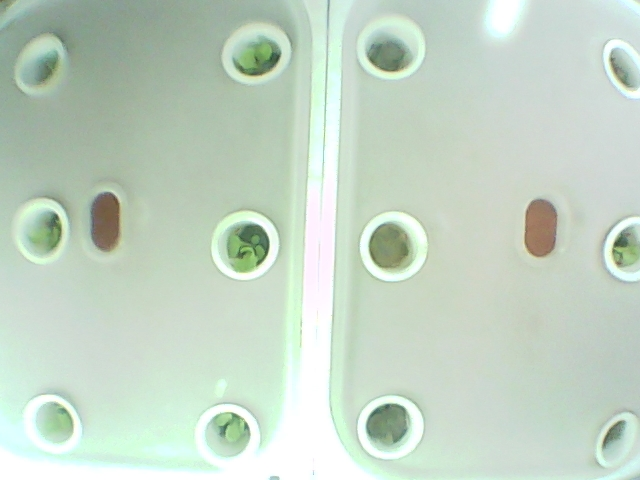
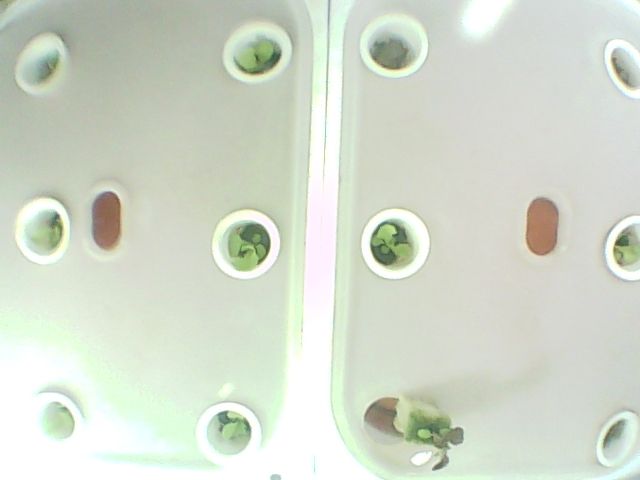
grow

diff --git a/public/page/tag.html b/public/page/tag.html
@@ -147,6 +147,8 @@
 											<img src="../icon/seeding4.png" ng-if="totaldatahole[i*3+floor*12].nameveg=='redoak'" class="vegInHole" ng-attr-id="{{i*3+floor*12}}">
 										</span>
 										<span class="tooltiptext"><h5>{{totaldatahole[i*3+floor*12].nameveg}}</h5><br>
+											<span ng-if="totaldatahole[i*3+floor*12].size">
+													Grow : {{totaldatahole[i*3+floor*12].size}}%</span> <br>
 											{{daysDiffFunc(totaldatahole[i*3+floor*12].typeveg).days}} days<br>
 											{{daysDiffFunc(totaldatahole[i*3+floor*12].typeveg).hours}} hours
 											{{daysDiffFunc(totaldatahole[i*3+floor*12].typeveg).mins}} mins
@@ -177,6 +179,8 @@
 											<img src="../icon/seeding4.png" ng-if="totaldatahole[1+i*3+floor*12].nameveg=='redoak'" class="vegInHole" ng-attr-id="{{1+i*3+floor*12}}">
 										</span>
 										<span class="tooltiptext"><h5>{{totaldatahole[1+i*3+floor*12].nameveg}}</h5><br>
+											<span ng-if="totaldatahole[1+i*3+floor*12].size">
+												Grow : {{totaldatahole[1+i*3+floor*12].size}}%</span> <br>
 											{{daysDiffFunc(totaldatahole[1+i*3+floor*12].typeveg).days}} days<br>
 											{{daysDiffFunc(totaldatahole[1+i*3+floor*12].typeveg).hours}} hours
 											{{daysDiffFunc(totaldatahole[1+i*3+floor*12].typeveg).mins}} mins
@@ -207,6 +211,8 @@
 											<img src="../icon/seeding4.png" ng-if="totaldatahole[2+i*3+floor*12].nameveg=='redoak'" class="vegInHole" ng-attr-id="{{2+i*3+floor*12}}">
 										</span>
 										<span class="tooltiptext"><h5>{{totaldatahole[2+i*3+floor*12].nameveg}}</h5><br>
+											<span ng-if="totaldatahole[2+i*3+floor*12].size">
+													Grow : {{totaldatahole[2+i*3+floor*12].size}}%</span> <br>
 											{{daysDiffFunc(totaldatahole[2+i*3+floor*12].typeveg).days}} days<br>
 											{{daysDiffFunc(totaldatahole[2+i*3+floor*12].typeveg).hours}} hours
 											{{daysDiffFunc(totaldatahole[2+i*3+floor*12].typeveg).mins}} mins

diff --git a/public/app.js b/public/app.js
@@ -769,14 +769,16 @@ angular.module('app', [])
               "idhole": id,
               "nameveg": veg,
               "typeveg": null,
-              "statushole": false
+              "statushole": false,
+              "size": null
             }
           else {//put
             obj = {
               "idhole": id,
               "nameveg": veg,
               "typeveg": new Date(),
-              "statushole": true
+              "statushole": true,
+              "size": null
             }
           }
           if ((veg == null && $scope.totaldatahole[id].statushole) || (veg !== null && !$scope.totaldatahole[id].statushole))

diff --git a/server.js b/server.js
@@ -194,7 +194,7 @@ app.get('/hole', function (req, res) {
 app.put('/hole/:id', function (req, res) {
   evenhole.findOneAndUpdate(
     { _id: req.params.id },
-    { $set: { idhole: req.body.idhole, statushole: req.body.statushole, nameveg: req.body.nameveg, typeveg: req.body.typeveg } },
+    { $set: { idhole: req.body.idhole, statushole: req.body.statushole, nameveg: req.body.nameveg, typeveg: req.body.typeveg, size: req.body.size } },
     { new: true })
     .exec(function (err, done) {
       if (err) console.log(err)

diff --git a/growRate.py b/growRate.py
@@ -6,7 +6,7 @@ import numpy as np
 import argparse
 import cv2
 import imutils
-
+import requests
 # construct the argument parse and parse the arguments
 ap = argparse.ArgumentParser()
 ap.add_argument("-i", "--image", help = "path to the image")
@@ -20,19 +20,22 @@ gridY = int(height/3)
 gridX = int(width/4)
 # define the list of boundaries
 boundaries = [
-	([146, 95, 46], [195, 100, 50]),
-	([135, 40, 40], [156, 60, 50])
+	([30,60,60], [50,255,255]),
+	([1,0,0], [255,160,160])
 ]
-
+holes = [[],[],[]]
+for i in range(0, 3):
+	for j in range(0, 12):
+		holes[i].append(None)
 hsv = cv2.cvtColor(image,cv2.COLOR_BGR2HSV)
 hsv = cv2.GaussianBlur(hsv, (5, 5), 0)
 # loop over the boundaries
 for (lower, upper) in boundaries:
 	# create NumPy arrays from the boundaries
-	lower = np.array(lower, dtype = "uint8")
-	upper = np.array(upper, dtype = "uint8")
-	lower = np.array([15,65,65])
-	upper = np.array([255,255,255])
+	# lower = np.array(lower, dtype = "uint8")
+	# upper = np.array(upper, dtype = "uint8")
+	lower = np.array(lower)
+	upper = np.array(upper)
 	# find the colors within the specified boundaries and apply
 	# the mask
 	mask = cv2.inRange(hsv, lower, upper)
@@ -46,7 +49,7 @@ for (lower, upper) in boundaries:
 	for idx, c in enumerate(cnts) :
 		rec = cv2.boundingRect(c)
 		area = cv2.contourArea(c)
-		if (area>100):
+		if (area>50 and area < 5000):
 			peri = cv2.arcLength(c, True)
 			approx = cv2.approxPolyDP(c, 0.01 * peri, True)
 			#if len(approx) >= 4:
@@ -56,12 +59,31 @@ for (lower, upper) in boundaries:
 			centerCo = (centerX , centerY)
 			col = int(centerX/gridX)
 			row = int(centerY/gridY)
-			hole = row*4+col+1
+			hole = col*3+row
+			if (holes[0][hole] is None):
+				holes[0][hole] = area
 			cv2.drawContours(image, [screenCnt], -1, (255, 255, 0), 2)
 			cv2.putText(image, "{}".format(str(hole)) + ": {}".format(str(area)), centerCo,
         	cv2.FONT_HERSHEY_SIMPLEX, 0.5, (250, 0, 1), 2)
 	# time.sleep(5)
 	# show the images
+	# r = requests.post("https://smartfarm-cabinet.herokuapp.com/hole/:id", data={'number': 12524, 'type': 'issue', 'action': 'show'})
+	# print(r.status_code, r.reason)
+	getHoles = requests.get("https://smartfarm-cabinet.herokuapp.com/hole")
+	Holes = getHoles.json()
+	# print(Holes[0]['_id'])
+	for i in range(0, 3):
+		for j in range(0, 12):
+			index = i*3+j
+			r = requests.put("https://smartfarm-cabinet.herokuapp.com/hole/" + Holes[index]['_id'], 
+			data = {
+				"idhole": Holes[index]['idhole'],
+				"statushole": Holes[index]['statushole'],
+				"nameveg": Holes[index]['nameveg'],
+				"typeveg": Holes[index]['typeveg'],
+				"size": holes[i][j]
+			})
+			print(r)
 	cv2.imshow("images", np.hstack([image, output]))
 	cv2.waitKey(0)
 	cv2.destroyAllWindows()
